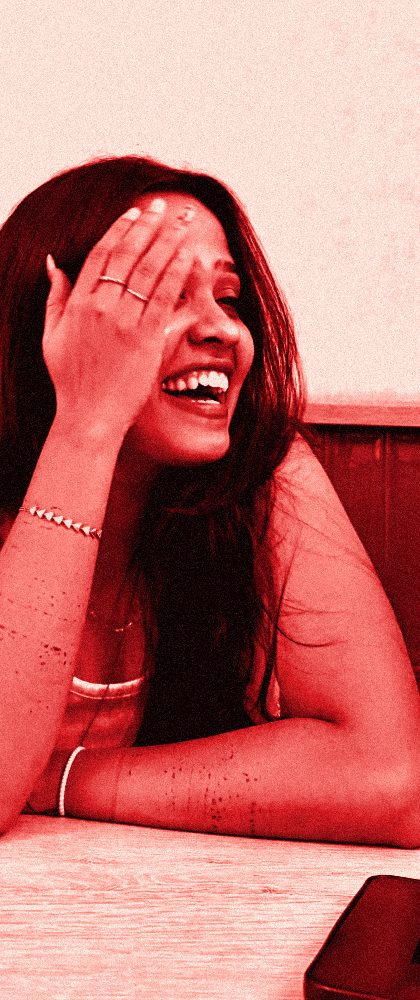
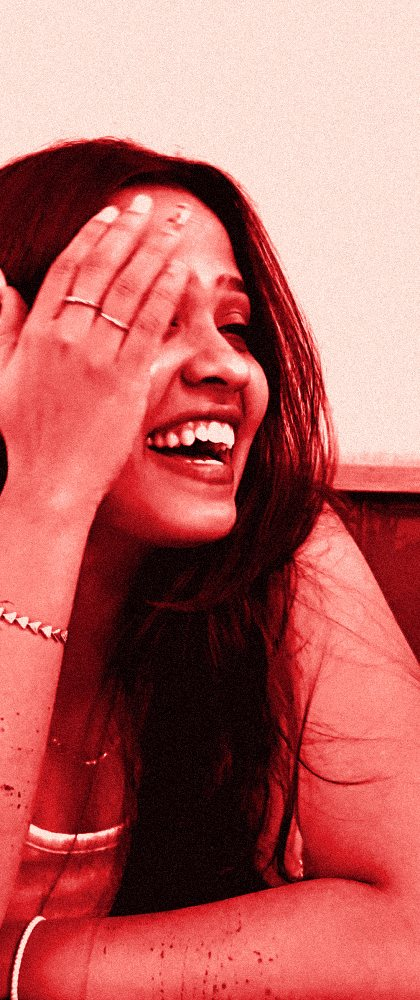
Editorial Cover Star and red Darkroom pages, red countdown, image cache-busting
Claude-Session: https://claude.ai/code/session_013SKNkG21uu13fm83ZaQXGa

diff --git a/index.html b/index.html
@@ -112,13 +112,14 @@ button,input{font:inherit;color:inherit}
 
 
 /* ===== COUNTDOWN LOCK ===== */
-#soon{position:fixed;inset:0;z-index:145;background:var(--paper);overflow:hidden;display:none}
+#soon{position:fixed;inset:0;z-index:145;background:#2a0306 url(img/k-museplate.jpg?v=4) center/cover;overflow:hidden;display:none;color:#f6e9d8}
+#soon::before{content:"";position:absolute;inset:0;background:radial-gradient(ellipse at 50% 30%,rgba(255,70,50,.18),transparent 60%),linear-gradient(rgba(20,2,4,.25),rgba(20,2,4,.55))}
 #soon.on{display:block}
 .sn-hd{position:absolute;top:5cqh;left:0;right:0;text-align:center;line-height:1.1}
 .sn-hd .rn{font-size:9.4cqw}
-.sn-k{position:absolute;top:calc(5cqh + 33cqw);left:6cqw;right:6cqw;display:flex;justify-content:space-between;border-top:2px solid var(--ink);border-bottom:2px solid var(--ink);padding:1.4cqw 0;font:700 2.4cqw "Space Mono";letter-spacing:.12em;text-transform:uppercase}
+.sn-k{position:absolute;top:calc(5cqh + 33cqw);left:6cqw;right:6cqw;display:flex;justify-content:space-between;border-top:2px solid #f6e9d8;border-bottom:2px solid #f6e9d8;color:#f6e9d8;padding:1.4cqw 0;font:700 2.4cqw "Space Mono";letter-spacing:.12em;text-transform:uppercase}
 .sn-clock{position:absolute;top:calc(5cqh + 42cqw);left:4cqw;right:4cqw;display:flex;justify-content:center;gap:2cqw}
-.sn-clock div{flex:1;background:var(--ink);color:var(--paper);text-align:center;padding:2.6cqw 0 2cqw;box-shadow:4px 4px 0 var(--red);position:relative}
+.sn-clock div{flex:1;background:rgba(14,3,4,.85);color:#fff1e8;text-align:center;padding:2.6cqw 0 2cqw;box-shadow:4px 4px 0 #f6e9d8,0 0 30px rgba(255,60,40,.25);position:relative;backdrop-filter:blur(4px)}
 .sn-clock b{display:block;font:400 13cqw/1 "Anton";font-variant-numeric:tabular-nums}
 .sn-clock span{font:700 2.2cqw "Space Mono";letter-spacing:.2em;text-transform:uppercase;opacity:.75}
 .sn-clock b.tick{animation:tick .35s ease}
@@ -126,12 +127,12 @@ button,input{font:inherit;color:inherit}
 .sn-cut{position:absolute;left:50%;bottom:0;height:46cqh;margin-left:calc(var(--w,280px)/-2);filter:drop-shadow(0 18px 24px rgba(0,0,0,.35)) blur(0)}
 .sn-bar{position:absolute;left:-6cqw;right:-6cqw;height:9cqw;background:var(--ink);color:var(--paper);display:grid;place-items:center;font:400 6cqw "Anton";letter-spacing:.3em;z-index:3;box-shadow:0 6px 14px rgba(0,0,0,.3)}
 .sn-bar.b1{bottom:30cqh;transform:rotate(-6deg)}
-.sn-bar.b2{bottom:17cqh;transform:rotate(4deg);background:var(--red)}
-.sn-note{position:absolute;left:6cqw;top:calc(5cqh + 72cqw);font-family:"Permanent Marker";font-size:6.2cqw;color:var(--marker);transform:rotate(-4deg);z-index:4;line-height:1.05}
+.sn-bar.b2{bottom:17cqh;transform:rotate(4deg);background:#f3e9d6;color:#a3121a}
+.sn-note{position:absolute;left:6cqw;top:calc(5cqh + 72cqw);font-family:"Permanent Marker";font-size:6.2cqw;color:#fff;text-shadow:0 2px 12px rgba(0,0,0,.5);transform:rotate(-4deg);z-index:4;line-height:1.05}
 .sn-jay{position:absolute;right:5cqw;top:calc(5cqh + 70cqw);z-index:6;display:none;text-align:right}
 .sn-jay.on{display:block}
-.sn-jay small{display:block;font:700 2.2cqw "Space Mono";letter-spacing:.12em;text-transform:uppercase;margin-top:1.4cqw;color:var(--red)}
-.sn-out{position:absolute;left:50%;top:40%;width:64cqw;height:64cqw;margin:-32cqw 0 0 -32cqw;border-radius:50%;border:2cqw solid var(--red);color:var(--red);display:grid;place-items:center;font:400 16cqw/0.85 "Anton";text-align:center;transform:rotate(-14deg) scale(3);opacity:0;mix-blend-mode:multiply;z-index:8;pointer-events:none}
+.sn-jay small{display:block;font:700 2.2cqw "Space Mono";letter-spacing:.12em;text-transform:uppercase;margin-top:1.4cqw;color:#ffcdc2}
+.sn-out{position:absolute;left:50%;top:40%;width:64cqw;height:64cqw;margin:-32cqw 0 0 -32cqw;border-radius:50%;border:2cqw solid #fff1e8;color:#fff1e8;display:grid;place-items:center;font:400 16cqw/0.85 "Anton";text-align:center;transform:rotate(-14deg) scale(3);opacity:0;z-index:8;pointer-events:none}
 
 /* ===== GATE ===== */
 #gate{position:fixed;inset:0;z-index:140;background:var(--paper);overflow:hidden}
@@ -213,21 +214,34 @@ button,input{font:inherit;color:inherit}
 .ticket b{display:block;font-family:"Anton";font-weight:400;font-size:8cqw;text-transform:uppercase;line-height:.95}
 .ticket .r b{font-size:11cqw;color:var(--red)}
 
-/* ===== 5 CONTACT SHEET ===== */
-#contact{--bg:#141112;color:#f4efe6}
-.cs-hd{position:absolute;top:5cqh;left:6cqw;right:6cqw;display:flex;justify-content:space-between;align-items:flex-end;font:700 2.6cqw "Space Mono";letter-spacing:.14em;text-transform:uppercase}
-.cs-hd b{font-family:"Anton";font-weight:400;font-size:11cqw;letter-spacing:0;line-height:.85}
-.cs-grid{position:absolute;top:calc(5cqh + 16cqw);left:4cqw;right:4cqw;display:grid;grid-template-columns:1fr 1fr;gap:3.5cqw 3cqw}
-.cs-f{position:relative;background:#000;padding:2.4cqw 0;
-  background-image:radial-gradient(circle,#141112 .9cqw,transparent 1cqw),radial-gradient(circle,#141112 .9cqw,transparent 1cqw);background-size:4cqw 2.4cqw;background-position:0 0,0 100%;background-repeat:repeat-x}
-.cs-f img{width:100%;aspect-ratio:1/1;object-fit:cover;filter:grayscale(.2) contrast(1.05)}
-.cs-f .n{position:absolute;left:1cqw;bottom:-3cqw;font:700 2cqw "Space Mono";color:#ff9a3c}
-.cs-ring{position:absolute;inset:-4cqw -4cqw;width:calc(100% + 8cqw);height:calc(100% + 8cqw);overflow:visible;pointer-events:none;z-index:3}
-.cs-ring path{fill:none;stroke:#ff2a2a;stroke-width:3;stroke-linecap:round}
-.cs-note{position:absolute;font-family:"Permanent Marker";color:#ff2a2a;font-size:5.4cqw;z-index:4;white-space:nowrap;opacity:0;line-height:1}
-.cs-zoom{position:absolute;inset:0;z-index:20;opacity:0;pointer-events:none;background:#141112}
+/* ===== 5 DARKROOM ===== */
+#contact{--bg:#160102;color:#ffd9cf}
+#contact .safe{position:absolute;inset:0;background:radial-gradient(ellipse 80% 40% at 50% -4%,rgba(255,40,24,.75),transparent 70%),radial-gradient(ellipse 90% 70% at 50% 65%,#520609,#120102 78%)}
+#contact .bulb{position:absolute;left:50%;top:-5cqw;width:20cqw;height:20cqw;margin-left:-10cqw;border-radius:50%;background:radial-gradient(circle,#fff3ea 0 10%,#ff5a40 28%,#c3140f 55%,transparent 72%);filter:blur(.5cqw);animation:hum 3.2s ease-in-out infinite;z-index:3}
+@keyframes hum{50%{opacity:.78}}
+.dr-word{position:absolute;left:-2cqw;font-family:"Anton";font-weight:400;font-size:47cqw;line-height:.78;color:transparent;-webkit-text-stroke:.35cqw rgba(255,120,100,.32);letter-spacing:-.01em;z-index:1;white-space:nowrap}
+.dr-word.w1{top:14cqh}.dr-word.w2{top:calc(14cqh + 38cqw);left:24cqw}
+.dr-k{position:absolute;top:6cqh;left:6cqw;right:6cqw;display:flex;justify-content:space-between;align-items:flex-end;z-index:4}
+.dr-k .t{font-family:"Instrument Serif";font-style:italic;font-size:8.6cqw;line-height:.95;color:#ffe9e2;text-shadow:0 0 24px rgba(255,60,40,.5)}
+.dr-k .t b{font-family:"Abril Fatface";font-style:normal;font-weight:400;display:block;font-size:12cqw;letter-spacing:.01em}
+.dr-k .m{font:700 2.1cqw/1.7 "Space Mono";letter-spacing:.2em;text-transform:uppercase;color:#ff9a8a;text-align:right}
+.lines{position:absolute;inset:0;z-index:2;pointer-events:none;overflow:visible}
+.lines path{fill:none;stroke:rgba(255,226,214,.6);stroke-width:1.3}
+.pr{position:absolute;z-index:3;transform:rotate(var(--r));transform-origin:50% 0;animation:sway 5s ease-in-out infinite;animation-delay:var(--d)}
+@keyframes sway{0%,100%{transform:rotate(var(--r))}50%{transform:rotate(calc(var(--r) + 1.6deg))}}
+.cs-f{position:relative;background:#fff6ef;padding:2cqw 2cqw 7.4cqw;box-shadow:0 18px 30px rgba(0,0,0,.6),0 0 40px rgba(255,40,30,.12)}
+.cs-f img{width:100%;aspect-ratio:1/1;object-fit:cover;display:block}
+.cs-f .dev{position:absolute;left:2cqw;right:2cqw;top:2cqw;aspect-ratio:1/1;background:#f1e2d8;pointer-events:none}
+.cs-f .pin{position:absolute;top:-4.6cqw;left:50%;width:4.2cqw;height:8.4cqw;margin-left:-2.1cqw;border-radius:1cqw;background:linear-gradient(90deg,#b98f5e,#ead6b6 50%,#a97f4e);box-shadow:0 2px 4px rgba(0,0,0,.45);z-index:3}
+.cs-f .pin::after{content:"";position:absolute;left:50%;top:36%;width:1.1cqw;height:1.1cqw;margin-left:-.55cqw;border-radius:50%;background:#6b4c30}
+.cs-f .n{position:absolute;left:2.4cqw;bottom:1.6cqw;font:700 1.8cqw "Space Mono";color:#b0463c;letter-spacing:.1em}
+.cs-note{position:absolute;right:2.2cqw;bottom:1.2cqw;font-family:"Permanent Marker";color:#c8191f;font-size:4.2cqw;line-height:1;opacity:0;white-space:nowrap}
+.cs-zoom{position:absolute;inset:0;z-index:20;opacity:0;pointer-events:none;background:#140102}
 .cs-zoom img{width:100%;height:100%;object-fit:cover}
-.cs-zoom .cap{position:absolute;left:6cqw;bottom:10cqh;font-family:"Permanent Marker";color:#fff;font-size:10cqw;line-height:.95;text-shadow:0 4px 20px rgba(0,0,0,.6)}
+.cs-zoom .cap{position:absolute;left:6cqw;right:6cqw;bottom:9cqh;color:#fff;text-shadow:0 4px 24px rgba(0,0,0,.7)}
+.cs-zoom .cap small{display:block;font:700 2.4cqw "Space Mono";letter-spacing:.3em;text-transform:uppercase;color:#ffc9b8}
+.cs-zoom .cap b{display:block;font-family:"Abril Fatface";font-weight:400;font-size:15cqw;line-height:.9;margin-top:2cqw}
+.cs-zoom .cap i{font-family:"Instrument Serif";font-size:6.6cqw}
 
 /* ===== 6 TOUR ===== */
 #tour{--bg:#2a0709;color:var(--cream)}
@@ -278,18 +292,30 @@ button,input{font:inherit;color:inherit}
 .tag b{display:block;font-family:"Anton";font-weight:400;font-size:4.4cqw;letter-spacing:.02em;color:var(--red)}
 .co-foot{position:absolute;left:6cqw;right:6cqw;bottom:4cqh;z-index:5;text-shadow:0 2px 14px rgba(0,0,0,.8);font-family:"Instrument Serif";font-style:italic;font-size:6cqw;line-height:1.05;text-align:center}
 
-/* ===== COVER STAR (duotone) ===== */
-#muse{--bg:#151112;color:#fff}
-#muse .weave{position:absolute;inset:0;background:
-  repeating-linear-gradient(45deg,rgba(255,255,255,.035) 0 2px,transparent 2px 6px),repeating-linear-gradient(-45deg,rgba(255,255,255,.035) 0 2px,transparent 2px 6px),radial-gradient(ellipse at 50% 40%,#2a1a1c,#0c0a0b 75%)}
-.mu-title{position:absolute;top:4cqh;left:5cqw;right:5cqw;z-index:6;line-height:.8}
-.mu-title .a{font-family:"Instrument Serif";font-size:15cqw;color:#fff;letter-spacing:.02em}
-.mu-title .b{display:block;font-family:"Caveat";font-weight:700;font-size:24cqw;color:#fff;margin:-5cqw 0 0 14cqw;transform:rotate(-6deg);text-shadow:0 4px 20px rgba(0,0,0,.6)}
-.mu-p{position:absolute;width:29cqw;overflow:hidden;z-index:1;box-shadow:0 20px 40px rgba(0,0,0,.6)}
-.mu-p img{width:100%;height:100%;object-fit:cover}
-.mu-cut{position:absolute;left:50%;bottom:0;height:68cqh;margin-left:calc(var(--w,300px)/-2);z-index:3;filter:drop-shadow(0 26px 30px rgba(0,0,0,.7))}
-.mu-lab{position:absolute;z-index:5;background:#f3ead8;color:#7a1018;font:800 4.2cqw/1.05 "Manrope";padding:1.6cqw 2.8cqw;border-radius:2cqw;box-shadow:0 0 0 .9cqw #fff,0 10px 20px rgba(0,0,0,.45);white-space:nowrap}
-.mu-k{position:absolute;bottom:3cqh;left:5cqw;right:5cqw;display:flex;justify-content:space-between;font:700 2.2cqw "Space Mono";letter-spacing:.18em;text-transform:uppercase;color:rgba(255,255,255,.7);z-index:6}
+/* ===== COVER STAR ===== */
+#muse{--bg:#2a0306;color:#fff}
+.mu-ghost{position:absolute;right:-18cqw;top:6cqh;height:70cqh;width:auto;max-width:none;opacity:.42;mix-blend-mode:screen;z-index:1;
+  -webkit-mask:linear-gradient(90deg,transparent,#000 35%,#000 70%,transparent),linear-gradient(transparent,#000 15%,#000 60%,transparent);-webkit-mask-composite:source-in;mask:linear-gradient(90deg,transparent,#000 35%,#000 70%,transparent),linear-gradient(transparent,#000 15%,#000 60%,transparent);mask-composite:intersect;filter:blur(.3cqw)}
+.mu-meta{position:absolute;top:4.2cqh;left:5cqw;right:5cqw;display:flex;justify-content:space-between;font:700 2cqw "Space Mono";letter-spacing:.18em;text-transform:uppercase;color:#ffcdc2;z-index:2;border-bottom:1px solid rgba(255,210,200,.45);padding-bottom:1.2cqw}
+.mu-mast{position:absolute;top:calc(4.2cqh + 5cqw);left:0;right:0;text-align:center;font-family:"Abril Fatface";font-size:24.5cqw;white-space:nowrap;line-height:.9;letter-spacing:-.01em;color:#fff1e8;z-index:2;text-shadow:0 10px 40px rgba(60,0,0,.5)}
+.mu-mast span{display:inline-block}
+.mu-cut{position:absolute;left:46cqw;bottom:0;height:76cqh;width:auto;max-width:none;z-index:3;filter:drop-shadow(0 0 2px rgba(255,255,255,.85)) drop-shadow(0 0 36px rgba(255,80,70,.55)) drop-shadow(0 30px 40px rgba(0,0,0,.6))}
+.mu-tab{position:absolute;left:5cqw;top:calc(4.2cqh + 38cqw);z-index:4;background:#fff1e8;color:#a3121a;font:700 2.3cqw "Space Mono";letter-spacing:.24em;text-transform:uppercase;padding:1cqw 2cqw}
+.mu-lines{position:absolute;left:5cqw;width:42cqw;top:calc(4.2cqh + 44cqw);z-index:4}
+.mu-l{padding:1.8cqw 0;border-top:1px solid rgba(255,210,200,.35)}
+.mu-l small{display:block;font:700 2cqw "Space Mono";letter-spacing:.2em;color:#ff8c7c}
+.mu-l b{display:block;font-family:"Anton";font-weight:400;font-size:6.6cqw;line-height:.95;text-transform:uppercase;color:#fff;margin-top:.6cqw}
+.mu-l i{display:block;font-family:"Instrument Serif";font-size:4.3cqw;line-height:1.05;color:#ffd3c8;margin-top:.6cqw}
+.mu-note{position:absolute;left:5cqw;top:calc(4.2cqh + 27cqw);z-index:5;font-family:"Permanent Marker";font-size:8cqw;color:#fff;transform:rotate(-10deg);clip-path:inset(0 100% 0 0);text-shadow:0 2px 10px rgba(0,0,0,.4)}
+.mu-arrow{position:absolute;left:34cqw;top:calc(4.2cqh + 26cqw);width:16cqw;z-index:5;overflow:visible}
+.mu-arrow path{fill:none;stroke:#fff;stroke-width:2.6;stroke-linecap:round;stroke-linejoin:round}
+.mu-strip{position:absolute;left:-4cqw;bottom:3.5cqh;width:62cqw;z-index:5;background:#f3e9d6;color:#151112;padding:2.4cqw 4cqw 2.4cqw 7cqw;transform:rotate(-4deg);box-shadow:0 10px 24px rgba(0,0,0,.45);
+  clip-path:polygon(0 8%,6% 0,14% 9%,22% 2%,31% 8%,40% 1%,50% 9%,60% 2%,69% 8%,79% 0,88% 9%,96% 2%,100% 7%,100% 92%,94% 100%,85% 91%,76% 99%,66% 92%,56% 100%,46% 91%,36% 99%,26% 92%,16% 100%,7% 92%,0 98%)}
+.mu-strip b{display:block;font-family:"Anton";font-weight:400;font-size:7.4cqw;line-height:.95;text-transform:uppercase}
+.mu-strip i{font-family:"Instrument Serif";font-size:4.4cqw;color:#a3121a}
+.mu-bar{position:absolute;right:4cqw;bottom:3cqh;width:17cqw;background:#fff;padding:1.4cqw 1.4cqw .8cqw;z-index:5}
+.mu-bar i{display:block;height:7cqw;background:repeating-linear-gradient(90deg,#000 0 2px,transparent 2px 3px,#000 3px 4px,transparent 4px 7px,#000 7px 10px,transparent 10px 11px)}
+.mu-bar span{display:block;font:700 1.5cqw "Space Mono";text-align:center;margin-top:.4cqw;color:#000}
 
 /* ===== GARBA ISSUE (torn strip) ===== */
 #garba{--bg:#5a0a0e;color:var(--cream)}
@@ -306,7 +332,7 @@ button,input{font:inherit;color:inherit}
 .gb-line span{font-family:"Instrument Serif";font-style:italic;font-size:4.2cqw;color:#ffd7c4}
 
 /* ===== 9 LETTER ===== */
-#letter{--bg:#120a04;height:auto;min-height:100svh;padding:9vh 0 12vh;background:#120a04 url(img/k-letterplate.jpg) center top/cover no-repeat}
+#letter{--bg:#120a04;height:auto;min-height:100svh;padding:9vh 0 12vh;background:#120a04 url(img/k-letterplate.jpg?v=4) center top/cover no-repeat}
 #letter .lt-paper{box-shadow:0 30px 60px rgba(0,0,0,.6)}
 #letter .ab{position:relative;left:auto;transform:none;margin:0 auto;height:auto;container-type:inline-size}
 .lt-paper{position:relative;margin:0 4cqw;background:#fdfaf2;padding:10cqw 7cqw 9cqw 12cqw;transform:rotate(-1.2deg);box-shadow:0 20px 40px rgba(0,0,0,.3);
@@ -389,7 +415,7 @@ button,input{font:inherit;color:inherit}
     <div class="sn-clock"><div><b id="snD">00</b><span>days</span></div><div><b id="snH">00</b><span>hrs</span></div><div><b id="snM">00</b><span>min</span></div><div><b id="snS">00</b><span>sec</span></div></div>
     <div class="sn-note">no peeking,<br>Bittu ♥</div>
     <div class="sn-jay" id="snJay"><button class="pb red" id="snPreview">preview now ▶</button><small>only visible on your link</small></div>
-    <img class="sn-cut" id="snCut" src="img/forehead-halftone.webp" alt="">
+    <img class="sn-cut" id="snCut" src="img/forehead-halftone.webp?v=4" alt="">
     <div class="sn-bar b1">CLASSIFIED</div><div class="sn-bar b2">TOP SECRET</div>
   </div>
   <div class="sn-out" id="snOut">OUT<br>NOW!</div>
@@ -417,10 +443,10 @@ button,input{font:inherit;color:inherit}
   <section class="poster" id="cover" data-f="p. 01 — the cover">
     <div class="side l">the birthday issue</div><div class="side r">kinjal · 26</div>
     <div class="ab">
-      <img class="plate" id="cPlate" src="img/k-coverplate.jpg" alt="">
+      <img class="plate" id="cPlate" src="img/k-coverplate.jpg?v=4" alt="">
       <div class="c-mast" id="cMast" data-rn="KINJAL"></div>
       <div class="c-issue" id="cIssue"><span>issue nº 26</span><span>the birthday issue</span><span>by jay</span></div>
-      <img class="c-cut halftone" id="cCut" src="img/forehead-halftone.webp" alt="Jay kissing Kinjal's forehead">
+      <img class="c-cut halftone" id="cCut" src="img/forehead-halftone.webp?v=4" alt="Jay kissing Kinjal's forehead">
       <div class="c-line" id="cl1" style="left:5cqw;top:calc(5cqh + 34cqw)"><span class="k">exclusive</span><b>the girl who never stops talking</b><span>(and why he never wants her to)</span></div>
       <div class="c-line" id="cl2" style="right:5cqw;top:calc(5cqh + 34cqw);text-align:right"><b>26 reasons</b><span>he's completely obsessed — p. 12</span></div>
       <div class="c-line" id="cl3" style="left:5cqw;bottom:14cqh"><b>where it all started</b><span>two cups of coffee change everything</span></div>
@@ -434,13 +460,13 @@ button,input{font:inherit;color:inherit}
   <section class="poster" id="hb" data-f="p. 02 — the poster">
     <div class="ab">
       <div class="hb-words anton" id="hbWords"><div>HAPPY</div><div>BIRTH</div><div>DAY</div></div>
-      <div class="film" id="hbF1" style="right:-4cqw;top:5cqh;width:46cqw"><div class="hd"><span>KINJAL 400</span><span>▸ 26</span></div><img class="bw" src="img/annaidli.jpg" alt="" style="object-position:50% 30%"><div class="ft"><span>ANNA IDLI</span><span>BY JAY</span></div></div>
-      <div class="film" id="hbF2" style="right:-10cqw;top:31cqh;width:52cqw"><div class="hd"><span>KINJAL 400</span><span>▸ 07</span></div><img src="img/balsa.jpg" alt="" style="object-position:50% 25%;filter:sepia(.25) saturate(1.1)"><div class="ft"><span>BALSA</span><span>16.07</span></div></div>
-      <img class="abs halftone" id="hbCut" src="img/akina-halftone.webp" alt="Kinjal and Jay at Akina" style="left:-6cqw;bottom:6cqh;height:68cqh;z-index:4">
+      <div class="film" id="hbF1" style="right:-4cqw;top:5cqh;width:46cqw"><div class="hd"><span>KINJAL 400</span><span>▸ 26</span></div><img class="bw" src="img/annaidli.jpg?v=4" alt="" style="object-position:50% 30%"><div class="ft"><span>ANNA IDLI</span><span>BY JAY</span></div></div>
+      <div class="film" id="hbF2" style="right:-10cqw;top:31cqh;width:52cqw"><div class="hd"><span>KINJAL 400</span><span>▸ 07</span></div><img src="img/balsa.jpg?v=4" alt="" style="object-position:50% 25%;filter:sepia(.25) saturate(1.1)"><div class="ft"><span>BALSA</span><span>16.07</span></div></div>
+      <img class="abs halftone" id="hbCut" src="img/akina-halftone.webp?v=4" alt="Kinjal and Jay at Akina" style="left:-6cqw;bottom:6cqh;height:68cqh;z-index:4">
       <div class="hb-copy" id="hbCopy">26 looks good on you. Today we celebrate like it's the biggest release of the year — because it is.</div>
       <div class="scrib" id="hbScrib" style="left:10cqw;top:15cqh;font-size:22cqw;transform:rotate(-14deg)">Bittu</div>
       <svg class="abs draw" id="hbHeart" viewBox="0 0 100 90" style="right:10cqw;top:26cqh;width:20cqw;z-index:7;overflow:visible"><path d="M50 84 C 18 62, 4 44, 10 26 C 16 8, 40 6, 50 28 C 60 6, 86 8, 90 26 C 96 46, 78 64, 46 86 M 70 80 l 14 8" stroke-width="3.4"/></svg>
-      <div class="cam" id="hbCam" style="right:-12cqw;bottom:2cqh"><div class="scr"><span class="rec">● PLAY</span><img src="img/garba.jpg" alt="" style="object-position:35% 40%"></div><i class="b1"></i><i class="b2"></i><i class="b3"></i></div>
+      <div class="cam" id="hbCam" style="right:-12cqw;bottom:2cqh"><div class="scr"><span class="rec">● PLAY</span><img src="img/garba.jpg?v=4" alt="" style="object-position:35% 40%"></div><i class="b1"></i><i class="b2"></i><i class="b3"></i></div>
     </div>
     <div class="flash" id="flash"></div>
   </section>
@@ -449,10 +475,10 @@ button,input{font:inherit;color:inherit}
   <section class="poster" id="anna" data-f="p. 03 — where it started">
     <div class="side l">chapter one</div><div class="side r">anna idli</div>
     <div class="ab">
-      <img class="plate" id="anPlate" src="img/k-annaplate.jpg" alt="">
+      <img class="plate" id="anPlate" src="img/k-annaplate.jpg?v=4" alt="">
       <div class="an-words anton" id="anWords"><div>WHERE</div><div>IT ALL</div><div>STARTED</div></div>
-      <div class="film" id="anFilm" style="left:6cqw;top:46cqh;width:38cqw;z-index:3"><div class="hd"><span>ANNA IDLI</span><span>▸ 01</span></div><img src="img/annaidli.jpg" alt="" style="object-position:50% 40%"><div class="ft"><span>CHAPTER</span><span>ONE</span></div></div>
-      <img class="an-cut halftone" id="anCut" src="img/annaidli-halftone.webp" alt="Kinjal and Jay at Anna Idli">
+      <div class="film" id="anFilm" style="left:6cqw;top:46cqh;width:38cqw;z-index:3"><div class="hd"><span>ANNA IDLI</span><span>▸ 01</span></div><img src="img/annaidli.jpg?v=4" alt="" style="object-position:50% 40%"><div class="ft"><span>CHAPTER</span><span>ONE</span></div></div>
+      <img class="an-cut halftone" id="anCut" src="img/annaidli-halftone.webp?v=4" alt="Kinjal and Jay at Anna Idli">
       <div class="stampc" id="anStamp" style="right:8cqw;top:30cqh;width:30cqw;height:30cqw">
         <svg viewBox="0 0 100 100"><defs><path id="sc" d="M50 50 m-38 0 a38 38 0 1 1 76 0 a38 38 0 1 1 -76 0"/></defs><text><textPath href="#sc">ANNA IDLI · EST. US · ANNA IDLI · EST. US ·</textPath></text></svg>
         <b>CH.<br>01</b>
@@ -466,7 +492,7 @@ button,input{font:inherit;color:inherit}
   <!-- 4 AGE -->
   <section class="poster" id="age" data-f="p. 04 — twenty six">
     <div class="ab">
-      <img class="plate" id="agPlate" src="img/k-ember.jpg" alt="Kinjal laughing, glowing in warm red light">
+      <img class="plate" id="agPlate" src="img/k-ember.jpg?v=4" alt="Kinjal laughing, glowing in warm red light">
       <div class="ag-k"><span>chapter 26</span><span>kinjal · the birthday issue</span></div>
       <div class="ag-num anton o">26</div>
       <div class="ag-num anton" id="agNum">0</div>
@@ -483,27 +509,35 @@ button,input{font:inherit;color:inherit}
   <section class="poster" id="muse" data-f="p. 05 — cover star">
     <div class="side l" style="color:#fff">cover star</div><div class="side r" style="color:#fff">kinjal</div>
     <div class="ab">
-      <div class="weave"></div>
-      <div class="mu-title" id="muTitle"><span class="a">Kinjal</span><span class="b">my Bittu</span></div>
-      <div class="mu-p" id="muP1" style="left:3cqw;top:30cqh;height:44cqh"><img src="img/k-duo1.jpg" alt=""></div>
-      <div class="mu-p" id="muP2" style="left:35.5cqw;top:25cqh;height:40cqh"><img src="img/k-duo2.jpg" alt=""></div>
-      <div class="mu-p" id="muP3" style="left:68cqw;top:30cqh;height:44cqh"><img src="img/k-duo3.jpg" alt=""></div>
-      <img class="mu-cut" id="muCut" src="img/k-red2.webp" alt="Kinjal in a red top">
-      <div class="mu-lab" style="left:4cqw;top:47cqh;transform:rotate(-4deg)">Professional<br>Yapper</div>
-      <div class="mu-lab" style="right:4cqw;top:56cqh;transform:rotate(3deg)">Chef Kinjal</div>
-      <div class="mu-lab" style="left:3cqw;top:72cqh;transform:rotate(2deg)">Two-coffee<br>girl ☕</div>
-      <div class="mu-lab" style="right:3cqw;top:80cqh;transform:rotate(-3deg)">Jay's<br>favourite</div>
-      <div class="mu-k"><span>cover star</span><span>issue nº 26</span></div>
+      <img class="plate" id="muPlate" src="img/k-museplate.jpg?v=4" alt="">
+      <img class="mu-ghost" id="muGhost" src="img/k-duo2.jpg?v=4" alt="">
+      <div class="mu-meta"><span>issue nº 26</span><span>the birthday issue</span><span>nov · 2026</span></div>
+      <div class="mu-mast" id="muMast">KINJAL</div>
+      <img class="mu-cut" id="muCut" src="img/k-red2.webp?v=4" alt="Kinjal in a red top">
+      <div class="mu-tab">exclusive</div>
+      <div class="mu-note" id="muNote">my Bittu</div>
+      <svg class="mu-arrow" id="muArrow" viewBox="0 0 60 40"><path d="M2 6 C 20 2, 40 10, 52 30 M 40 28 L 53 31 L 54 18"/></svg>
+      <div class="mu-lines" id="muLines">
+        <div class="mu-l"><small>01</small><b>Professional Yapper</b><i>talks nonstop. he loves it.</i></div>
+        <div class="mu-l"><small>02</small><b>Chef Kinjal</b><i>pizzas, wonky and perfect</i></div>
+        <div class="mu-l"><small>03</small><b>The two-coffee girl</b><i>where it all began</i></div>
+        <div class="mu-l"><small>04</small><b>Jay's favourite</b><i>obviously. always.</i></div>
+      </div>
+      <div class="mu-strip" id="muStrip"><b>The cover star</b><i>26, engaged &amp; glowing</i></div>
+      <div class="mu-bar"><i></i><span>1 OF 1</span></div>
     </div>
   </section>
 
-  <!-- 5 CONTACT SHEET -->
-  <section class="poster" id="contact" data-f="p. 06 — contact sheet">
-    <div class="side l" style="color:#fff">kinjal 400</div><div class="side r" style="color:#fff">contact sheet</div>
+  <!-- 5 DARKROOM -->
+  <section class="poster" id="contact" data-f="p. 06 — the darkroom">
+    <div class="side l" style="color:#fff">the darkroom</div><div class="side r" style="color:#fff">roll 26</div>
     <div class="ab">
-      <div class="cs-hd"><b>CONTACT<br>SHEET</b><span style="text-align:right">kinjal 400<br>roll 26 · by jay</span></div>
-      <div class="cs-grid" id="csGrid"></div>
-      <div class="cs-zoom" id="csZoom"><img src="img/shades.jpg" alt="Kinjal and Jay laughing at the photoshoot" style="object-position:50% 30%"><div class="cap">the keeper. ♥</div></div>
+      <div class="safe"></div><div class="bulb"></div>
+      <div class="dr-word w1">DARK</div><div class="dr-word w2">ROOM</div>
+      <div class="dr-k"><div class="t"><b>Darkroom</b>developing us.</div><div class="m">roll nº 26<br>kinjal 400<br>36 exp.</div></div>
+      <svg class="lines" viewBox="0 0 100 100" preserveAspectRatio="none"><path d="M-3 20 Q50 25 103 21" vector-effect="non-scaling-stroke"/><path d="M-3 46 Q50 50 103 45" vector-effect="non-scaling-stroke"/></svg>
+      <div id="prints"></div>
+      <div class="cs-zoom" id="csZoom"><img src="img/k-keeper.jpg?v=4" alt="Kinjal and Jay laughing at the photoshoot" style="object-position:50% 30%"><div class="cap"><small>frame 26 · fully developed</small><b>The keeper.</b><i>my favourite picture of my favourite person ♥</i></div></div>
     </div>
   </section>
 
@@ -511,10 +545,10 @@ button,input{font:inherit;color:inherit}
   <section class="poster" id="tour" data-f="p. 07 — the love tour">
     <div class="side l" style="color:#fff">the love tour</div><div class="side r" style="color:#fff">sold out</div>
     <div class="ab">
-      <img class="plate" id="tPlate" src="img/k-ghostplate.jpg" alt="">
+      <img class="plate" id="tPlate" src="img/k-ghostplate.jpg?v=4" alt="">
       <div class="t-hd"><div class="k">kinjal & jay present</div><div class="big">The Love<br>Tour</div><div class="sub">live, in person, every weekend</div></div>
       <div class="t-list" id="tList"></div>
-      <img class="t-cut glowcut2" id="tCut" src="img/k-red1.webp" alt="Kinjal">
+      <img class="t-cut glowcut2" id="tCut" src="img/k-red1.webp?v=4" alt="Kinjal">
       <div class="t-foot" id="tFoot">+ more dates<br>forever ♥</div>
     </div>
   </section>
@@ -524,10 +558,10 @@ button,input{font:inherit;color:inherit}
   <section class="poster" id="garba" data-f="p. 08 — the garba issue">
     <div class="side l" style="color:#fff">garba queen</div><div class="side r" style="color:#fff">dandiya edition</div>
     <div class="ab">
-      <img class="plate" id="gbPlate" src="img/k-garbaplate.jpg" alt="">
+      <img class="plate" id="gbPlate" src="img/k-garbaplate.jpg?v=4" alt="">
       <div class="gb-mast" id="gbMast">KINJAL</div>
       <div class="gb-sub"><span>the garba issue</span><span>navratri special</span></div>
-      <img class="gb-cut" id="gbCut" src="img/k-garba.webp" alt="Kinjal in a black lehenga at garba">
+      <img class="gb-cut" id="gbCut" src="img/k-garba.webp?v=4" alt="Kinjal in a black lehenga at garba">
       <div class="gb-strip" id="gbStrip"><b>Garba Queen</b><i>spin. smile. repeat.</i></div>
       <div class="gb-line" id="gbL1" style="left:5cqw;top:64cqh"><b>1,000+ spins</b><span>and still not dizzy</span></div>
       <div class="gb-line" id="gbL2" style="right:5cqw;top:72cqh;text-align:right"><b>1 dupatta</b><span>held on to (by Jay)</span></div>
@@ -542,7 +576,7 @@ button,input{font:inherit;color:inherit}
       <div class="np-head" id="npHead"><span>SHE</span> <span>SAID</span><br><span>YES!</span></div>
       <div class="np-dek" id="npDek">Local man asks the question of his life. Local girl says yes before he finishes the sentence.</div>
       <div class="np-body">
-        <div class="np-photo" id="npPhoto"><img src="img/cheek.jpg" alt="Kinjal kissing Jay on the cheek" style="object-position:50% 30%"><span>PICTURED: the happiest man in the city, moments later.</span></div>
+        <div class="np-photo" id="npPhoto"><img src="img/cheek.jpg?v=4" alt="Kinjal kissing Jay on the cheek" style="object-position:50% 30%"><span>PICTURED: the happiest man in the city, moments later.</span></div>
         <div class="np-col"><p>In what witnesses are calling "completely expected", Kinjal — known to exactly one man in the world as Bittu — said yes on the 16th of July.</p><p>The pair's story began over two cups of coffee at Anna Idli and has since toured Lonavala, Cozy Box, Akina and every café in the city.</p><p>Sources confirm he has not stopped smiling since. More on p. 26.</p></div>
       </div>
       <svg class="ring-doodle" id="npRing" viewBox="0 0 300 150" style="left:2cqw;top:calc(4cqh + 19cqw);width:96cqw"><path d="M150 12 C 260 10, 300 50, 280 100 C 260 140, 60 150, 22 110 C -10 70, 40 20, 160 16 C 200 15, 230 20, 250 30"/></svg>
@@ -556,7 +590,7 @@ button,input{font:inherit;color:inherit}
   <section class="poster" id="coll" data-f="p. 10 — the collection">
     <div class="side l" style="color:#fff">the giver</div><div class="side r" style="color:#fff">1 of 1</div>
     <div class="ab">
-      <img class="plate" id="coPlate" src="img/k-amber.jpg" alt="Kinjal sipping coffee">
+      <img class="plate" id="coPlate" src="img/k-amber.jpg?v=4" alt="Kinjal sipping coffee">
       <div class="co-hd"><div class="k">ss26 · gifts from her</div><div class="big">The Kinjal <em>Collection</em></div></div>
       <div id="stickers"></div>
       <div class="co-foot" id="coFoot">she never comes empty-handed. never empty-hearted.</div>
@@ -582,7 +616,7 @@ button,input{font:inherit;color:inherit}
   <section class="poster" id="reasons" data-f="p. 12 — 26 reasons">
     <div class="side l">26 reasons</div><div class="side r">it's not short</div>
     <div class="ab">
-      <img class="plate" id="rsPlate" src="img/k-reasonsplate.jpg" alt="">
+      <img class="plate" id="rsPlate" src="img/k-reasonsplate.jpg?v=4" alt="">
       <div class="rs-hd"><div class="big">26<br><span>REASONS</span></div><div class="k">why it's you. a very incomplete list.</div></div>
       <div class="rs-list" id="rsList"></div>
     </div>
@@ -605,10 +639,10 @@ button,input{font:inherit;color:inherit}
   <section class="poster" id="back" data-f="p. 14 — the back cover">
     <div class="side l">the end</div><div class="side r">of chapter 26</div>
     <div class="ab">
-      <img class="plate" id="bkPlate" src="img/k-backplate.jpg" alt="">
+      <img class="plate" id="bkPlate" src="img/k-backplate.jpg?v=4" alt="">
       <div class="bk-hd" id="bkHd" data-rn="HAPPY|BIRTHDAY|KINJAL"></div>
       <div class="bk-script" id="bkScript">forever yours, Jay ♥</div>
-      <img class="bk-cut halftone" id="bkCut" src="img/balsa-halftone.webp" alt="Kinjal hugging Jay">
+      <img class="bk-cut halftone" id="bkCut" src="img/balsa-halftone.webp?v=4" alt="Kinjal hugging Jay">
       <div class="bk-end">the end<br>of chapter 26.<br>chapter 27<br>starts now.</div>
       <div class="burst" style="right:5cqw;bottom:22cqh;width:26cqw;height:26cqw;background:var(--pink);font-size:5.4cqw" id="bkBurst">LIMITED<br>EDITION<br>1 of 1</div>
       <div class="bk-btns"><button class="pb red" id="replay">read again</button><button class="pb" id="confBtn">confetti!</button></div>
@@ -691,9 +725,9 @@ function cLoop() {
 }
 
 /* ---------- loader ---------- */
-const imgs = ['forehead-halftone', 'akina-halftone', 'annaidli-halftone', 'balsa-halftone', 'k-red1', 'k-red2', 'k-garba'].map(k => `img/${k}.webp`)
-  .concat(['k-ember', 'k-amber', 'k-ghostplate', 'k-garbaplate', 'k-duo1', 'k-duo2', 'k-duo3', 'k-coverplate', 'k-annaplate', 'k-reasonsplate', 'k-backplate', 'k-letterplate', 'car', 'shades'].map(k => `img/${k}.jpg`))
-  .concat(['annaidli', 'balsa', 'garba', 'akina', 'sinonnas', 'night', 'cheek', 'forehead'].map(k => `img/${k}.jpg`));
+const imgs = ['forehead-halftone', 'akina-halftone', 'annaidli-halftone', 'balsa-halftone', 'k-red1', 'k-red2', 'k-garba'].map(k => `img/${k}.webp?v=4`)
+  .concat(['k-ember', 'k-amber', 'k-ghostplate', 'k-garbaplate', 'k-duo1', 'k-duo2', 'k-duo3', 'k-coverplate', 'k-annaplate', 'k-reasonsplate', 'k-backplate', 'k-letterplate', 'car', 'shades', 'k-museplate', 'k-keeper', 'dr-akina', 'dr-sinonnas', 'dr-garba', 'dr-car', 'dr-balsa', 'dr-annaidli'].map(k => `img/${k}.jpg?v=4`))
+  .concat(['annaidli', 'balsa', 'garba', 'akina', 'sinonnas', 'night', 'cheek', 'forehead'].map(k => `img/${k}.jpg?v=4`));
 let loaded = 0; const msgs = ['gluing photos…', 'cutting paper…', 'inking the stamps…', 'drying the ink…', 'stapling it together…'];
 const shown = {v: 0};
 function bump() { loaded++; gsap.to(shown, {v: loaded/(imgs.length + 1)*100, duration: .4, onUpdate: () => { $('#pct').textContent = Math.round(shown.v); $('#pmsg').textContent = msgs[Math.min(msgs.length - 1, (shown.v/22)|0)]; }}); }
@@ -830,18 +864,26 @@ pin('#age', 200)
   .fromTo('#agTicket', {yPercent: 140, rotation: 10}, {yPercent: 0, rotation: -3, duration: .7, ease: 'back.out(1.4)'}, 1.9)
   .to({}, {duration: .4});
 
-/* 5 CONTACT SHEET */
-const sheet = [['akina', '01', 'that look', [8, 92]], ['sinonnas', '02', 'chef kinjal', [52, 92]], ['garba', '03', 'that laugh!!', [8, 92]], ['car', '04', 'lonavala ✌', [40, 92]], ['balsa', '05', 'that hug', [8, 92]], ['annaidli', '06', 'day one ♥', [44, 92]]];
-$('#csGrid').innerHTML = sheet.map(([k, n, note, [l, t]], i) => `<div class="cs-f"><img src="img/${k}.jpg" alt="" style="object-position:${k === 'garba' ? '30%' : k === 'car' ? '65%' : '50%'} 30%"><span class="n">▸ ${n}A</span>
-  <svg class="cs-ring" viewBox="0 0 100 100" preserveAspectRatio="none"><path d="M50 4 C 86 2, 98 26, 96 52 C 94 82, 70 98, 46 96 C 16 94, 2 74, 4 48 C 6 22, 26 6, 56 6" vector-effect="non-scaling-stroke"/></svg>
-  <div class="cs-note" style="left:${l}%;top:${t}%;transform:rotate(${i % 2 ? 6 : -6}deg)">${note}</div></div>`).join('');
-prepDraw('.cs-ring path');
-const csTl = pin('#contact', 360);
-csTl.fromTo('.cs-f', {opacity: 0, y: 40}, {opacity: 1, y: 0, duration: .4, stagger: .1}, 0);
-$$('.cs-f').forEach((f, i) => csTl.to(f.querySelector('.cs-ring path'), {strokeDashoffset: 0, duration: .35, ease: 'none'}, .8 + i*.38).to(f.querySelector('.cs-note'), {opacity: 1, duration: .15}, .95 + i*.38));
-csTl.fromTo('#csZoom', {opacity: 0, clipPath: 'inset(40% 30% 40% 30%)'}, {opacity: 1, clipPath: 'inset(0% 0% 0% 0%)', duration: .8, ease: 'power3.inOut'}, 3.3)
-  .fromTo('#csZoom img', {scale: 1.4}, {scale: 1, duration: 1}, 3.3)
-  .fromTo('#csZoom .cap', {opacity: 0, y: 30}, {opacity: 1, y: 0, duration: .4}, 3.9)
+/* 5 DARKROOM */
+const sheet = [
+  ['akina', '01', 'that look', 5, '20cqh', 36, -5],
+  ['sinonnas', '02', 'chef kinjal', 55, 'calc(21cqh + 1cqw)', 36, 4],
+  ['garba', '03', 'that laugh!!', 7, '46cqh', 35, 3],
+  ['car', '04', 'lonavala ✌', 55, '45cqh', 36, -4],
+  ['balsa', '05', 'that hug', 8, '72cqh', 33, -7],
+  ['annaidli', '06', 'day one ♥', 54, '71cqh', 36, 6]];
+$('#prints').innerHTML = sheet.map(([k, n, note, l, t, w, r], i) => `<div class="pr" style="left:${l}cqw;top:${t};width:${w}cqw;--r:${r}deg;--d:${-i*.8}s"><div class="cs-f">${i < 4 ? '<i class="pin"></i>' : '<i class="tape" style="top:-2.6cqw;left:50%;margin-left:-11cqw;transform:rotate(-4deg)"></i>'}<img src="img/dr-${k}.jpg?v=4" alt=""><div class="dev"></div><span class="n">▸ ${n}A</span><div class="cs-note">${note}</div></div></div>`).join('');
+const csTl = pin('#contact', 380);
+csTl.fromTo('.dr-word', {xPercent: (i) => i ? 30 : -30, opacity: 0}, {xPercent: 0, opacity: 1, duration: .6, stagger: .1}, 0)
+    .fromTo('.dr-k', {opacity: 0, y: -24}, {opacity: 1, y: 0, duration: .4}, 0)
+    .fromTo('#prints .cs-f', {y: -90, opacity: 0}, {y: 0, opacity: 1, duration: .5, stagger: .14, ease: 'back.out(1.6)'}, .2);
+$$('#prints .cs-f').forEach((f, i) => csTl
+  .fromTo(f.querySelector('.dev'), {opacity: 1}, {opacity: 0, duration: .55, ease: 'power1.in'}, 1 + i*.36)
+  .fromTo(f.querySelector('img'), {filter: 'brightness(2.3) contrast(.35) blur(4px)'}, {filter: 'brightness(1) contrast(1) blur(0px)', duration: .6, ease: 'power1.out'}, 1 + i*.36)
+  .to(f.querySelector('.cs-note'), {opacity: 1, duration: .15}, 1.45 + i*.36));
+csTl.fromTo('#csZoom', {opacity: 0, clipPath: 'inset(42% 30% 42% 30%)'}, {opacity: 1, clipPath: 'inset(0% 0% 0% 0%)', duration: .8, ease: 'power3.inOut'}, 3.5)
+  .fromTo('#csZoom img', {scale: 1.4}, {scale: 1, duration: 1}, 3.5)
+  .fromTo('#csZoom .cap > *', {opacity: 0, y: 30}, {opacity: 1, y: 0, duration: .35, stagger: .12}, 4.1)
   .to({}, {duration: .5});
 
 /* 6 LOVE TOUR */
@@ -858,14 +900,21 @@ tTl.fromTo('#tCut', {xPercent: 60, opacity: 0}, {xPercent: 0, opacity: 1, durati
 
 
 /* COVER STAR */
-function sizeMore() { $$('#muCut, #gbCut').forEach(i => i.style.setProperty('--w', i.offsetWidth + 'px')); }
-$$('#muCut, #gbCut').forEach(i => i.complete ? sizeMore() : i.addEventListener('load', sizeMore)); addEventListener('resize', sizeMore);
-pin('#muse', 240)
-  .fromTo('#muTitle .a', {yPercent: -120, opacity: 0}, {yPercent: 0, opacity: 1, duration: .5, ease: 'power4.out'}, 0)
-  .fromTo(['#muP1', '#muP2', '#muP3'], {yPercent: -130, opacity: 0}, {yPercent: 0, opacity: 1, duration: .6, stagger: .18, ease: 'power3.out'}, .2)
-  .fromTo('#muCut', {yPercent: 50, opacity: 0, scale: .9}, {yPercent: 0, opacity: 1, scale: 1, duration: .8, ease: 'power3.out'}, .9)
-  .fromTo('#muTitle .b', {clipPath: 'inset(0 100% 0 0)'}, {clipPath: 'inset(0 0% 0 0)', duration: .6, ease: 'none'}, 1.4)
-  .fromTo('#muse .mu-lab', {scale: 0, opacity: 0}, {scale: 1, opacity: 1, duration: .3, stagger: .2, ease: 'back.out(3)', onStart: () => buzz(15)}, 1.9)
+function sizeMore() { $$('#gbCut').forEach(i => i.style.setProperty('--w', i.offsetWidth + 'px')); }
+$$('#gbCut').forEach(i => i.complete ? sizeMore() : i.addEventListener('load', sizeMore)); addEventListener('resize', sizeMore);
+$('#muMast').innerHTML = [...'KINJAL'].map(c => `<span>${c}</span>`).join('');
+(() => { const p = $('#muArrow path'), L = p.getTotalLength(); p.style.strokeDasharray = L; p.style.strokeDashoffset = L; })();
+pin('#muse', 260)
+  .fromTo('#muPlate', {scale: 1.15}, {scale: 1, duration: 3.2, ease: 'none'}, 0)
+  .fromTo('#muGhost', {xPercent: 30, opacity: 0}, {xPercent: 0, opacity: .42, duration: 1.4, ease: 'power2.out'}, 0)
+  .fromTo('.mu-meta', {opacity: 0}, {opacity: 1, duration: .3}, 0)
+  .fromTo('#muMast span', {yPercent: 110, opacity: 0}, {yPercent: 0, opacity: 1, duration: .5, stagger: .07, ease: 'power4.out'}, .1)
+  .fromTo('#muCut', {yPercent: 25, opacity: 0}, {yPercent: 0, opacity: 1, duration: .9, ease: 'power3.out'}, .6)
+  .fromTo('.mu-tab', {xPercent: -120}, {xPercent: 0, duration: .3}, 1.2)
+  .fromTo('.mu-l', {x: -40, opacity: 0}, {x: 0, opacity: 1, duration: .35, stagger: .16}, 1.3)
+  .to('#muNote', {clipPath: 'inset(0 0% 0 0)', duration: .5, ease: 'none'}, 2)
+  .to('#muArrow path', {strokeDashoffset: 0, duration: .4, ease: 'none'}, 2.4)
+  .fromTo('#muStrip', {xPercent: -110}, {xPercent: 0, duration: .45, ease: 'power4.out', onComplete: () => buzz(20)}, 2.6)
   .to({}, {duration: .5});
 
 /* GARBA ISSUE */
